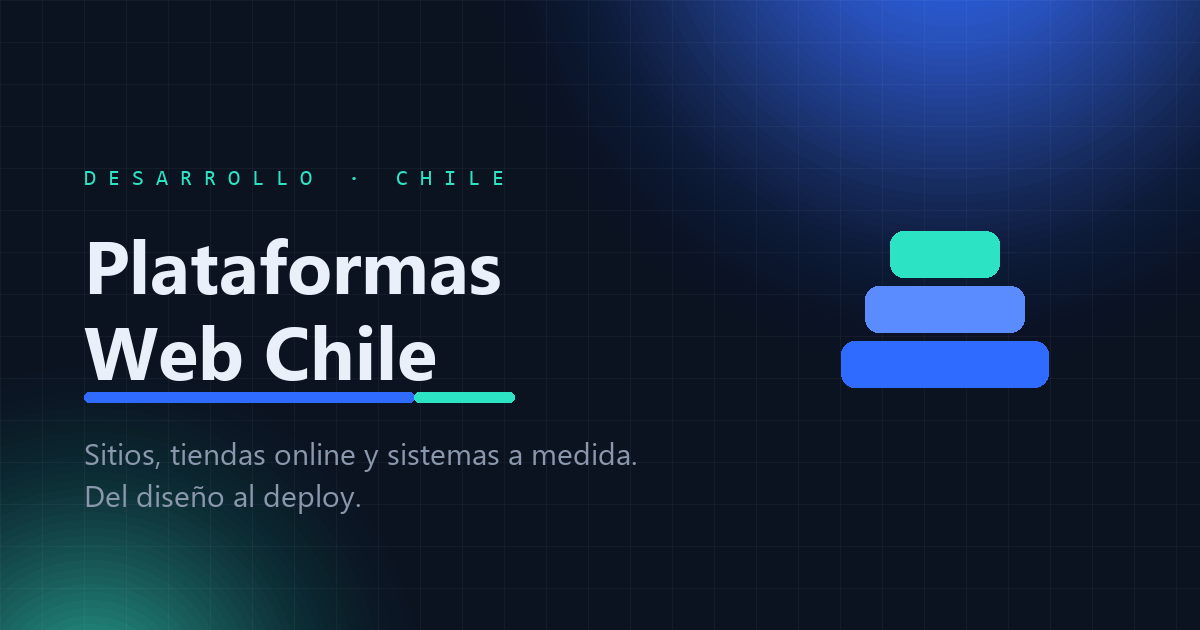
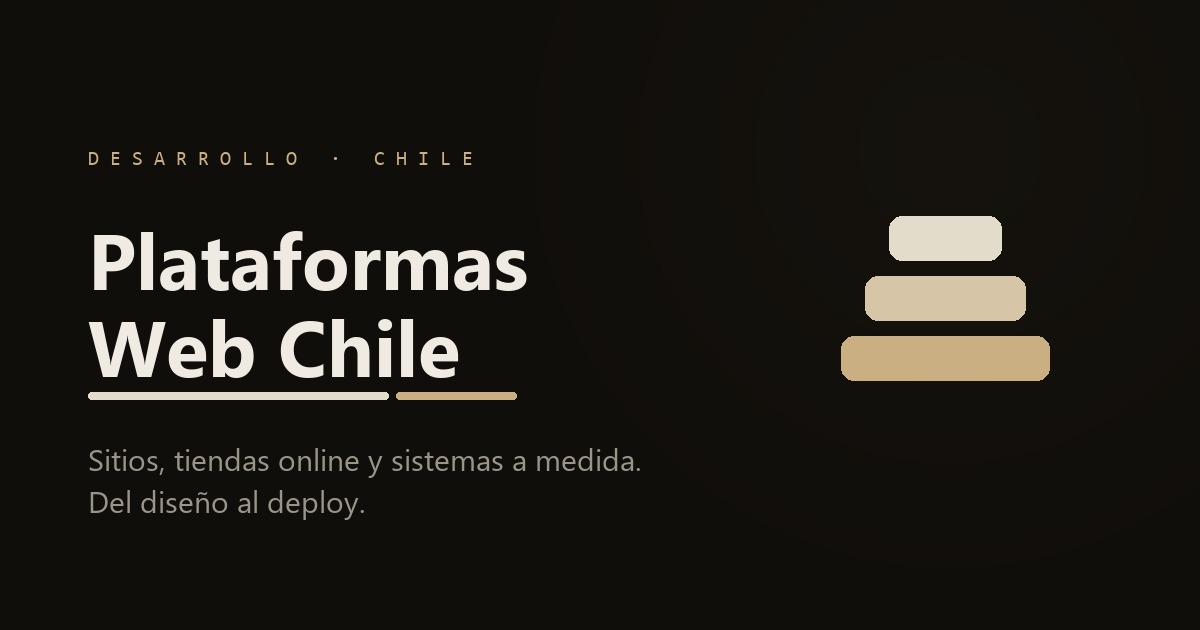
Regenerar la og-image en tabaco y pausar el enlace a stom.cl
La og-image seguia en azul-teal, del diseno anterior: era lo primero que veia
quien recibiera el enlace por WhatsApp o Facebook, y contradecia todo lo demas.
Se rehace en tabaco, con las capas ascendiendo del bronce al hueso como el
resto del kit.

Y el caso de STOM queda sin el enlace clickeable hasta el lunes 31 a las 15:00,
porque hasta esa hora stom.cl muestra el WordPress viejo: justo lo que el
titular de la pagina promete reemplazar. Queda un comentario en el HTML con la
linea exacta para restaurarlo.

No se puso clave de acceso porque en GitHub Pages no existe -es estatico, el
HTML se entrega completo- y apagar Pages habria roto el credito del pie de
stom.cl, que enlaza a este sitio.

diff --git a/index.html b/index.html
@@ -267,7 +267,11 @@
       </div>
     </div>
     <div class="caso-pie">
-      <a href="https://stom.cl" target="_blank" rel="noopener">stom.cl &rarr;</a>
+      <!-- ENLACE EN PAUSA hasta el lunes 31-08-2026, 15:00.
+           Hasta esa hora stom.cl sigue mostrando el WordPress viejo, o sea justo lo que
+           el titular de esta pagina promete reemplazar. Apenas se haga el corte, restaurar:
+           <a href="https://stom.cl" target="_blank" rel="noopener">stom.cl &rarr;</a> -->
+      <span>stom.cl</span>
       <span>Publicado con el consentimiento del cliente.</span>
     </div>
   </article>

diff --git a/README.md b/README.md
@@ -85,6 +85,18 @@ Dirección elegida: **Capas** — tres planos que ascienden, una plataforma que 
 sistema (Segoe UI / Consolas). Para imprenta conviene convertirlo a trazos, si no se ve
 distinto en cada equipo. El símbolo ya es geométrico y no depende de fuentes.
 
+## ⏸ Pendiente con fecha: el lunes 31-08-2026 a las 15:00
+
+El caso de STOM tiene **el enlace a `stom.cl` en pausa**: hasta esa hora el dominio sigue
+mostrando el WordPress viejo, que es justo lo que el titular de esta página promete
+reemplazar. En `index.html`, en el `caso-pie`, hay un comentario con la línea exacta que hay
+que restaurar apenas se haga el corte.
+
+No se puso una clave de acceso porque **en GitHub Pages no existe**: es hosting estático y el
+HTML se entrega completo a quien lo pida, así que cualquier clave en JavaScript es decorativa.
+Y apagar Pages tampoco servía: **el pie de `stom.cl` enlaza a este sitio** (`Footer.jsx`), así
+que dejarlo caído rompería el crédito en el sitio del cliente.
+
 ## Cambio de dominio
 
 Cuando `plataformasweb.cl` tenga delegación:
